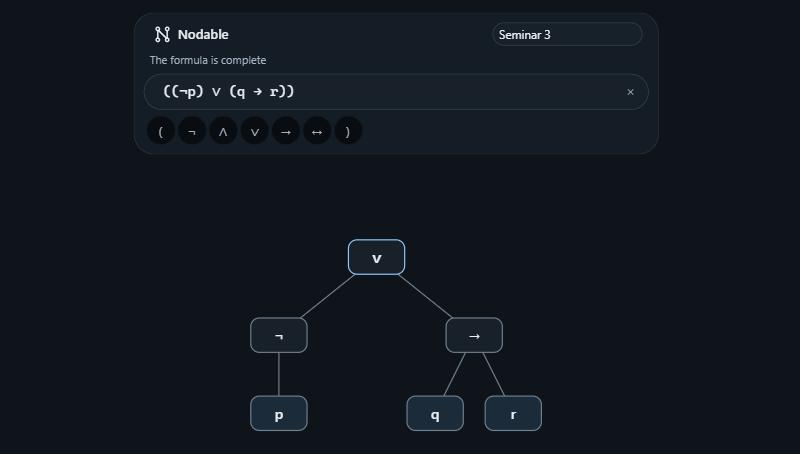
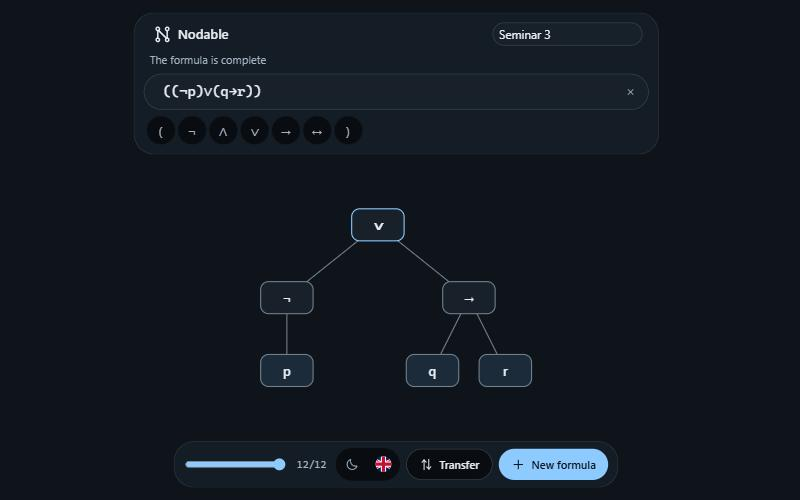
docs(repo): center the readme header and document the exports
The header relied on a wrapping div, which GitHub does not center, and
two of the three badges pointed at an owner placeholder, so they
rendered as invalid.

- Each header element carries its own align attribute
- Badges are license, Svelte and TypeScript, all of which resolve
- The node details section is replaced by one about exports
- Screenshots are retaken with the dock in frame and the tree centred
- Repository links use the real account instead of the placeholder

diff --git a/README.md b/README.md
@@ -1,16 +1,16 @@
-<div align="center">
+<p align="center">
+  <img src="assets/logo/logo.svg" alt="Nodable" width="88">
+</p>
 
-<img src="assets/logo/logo.svg" alt="" width="88">
+<h1 align="center">Nodable</h1>
 
-# Nodable
+<p align="center">Syntax trees for propositional logic formulas, in the browser.</p>
 
-Syntax trees for propositional logic formulas, in the browser.
-
-[![CI](https://github.com/[OWNER]/nodable/actions/workflows/ci.yml/badge.svg)](https://github.com/[OWNER]/nodable/actions/workflows/ci.yml)
-[![License: MIT](https://img.shields.io/badge/license-MIT-blue.svg)](LICENSE)
-[![Latest release](https://img.shields.io/github/v/release/[OWNER]/nodable?sort=semver)](https://github.com/[OWNER]/nodable/releases)
-
-</div>
+<p align="center">
+  <a href="LICENSE"><img alt="License: MIT" src="https://img.shields.io/badge/license-MIT-2f7bbf"></a>
+  <a href="https://svelte.dev"><img alt="Svelte 5" src="https://img.shields.io/badge/Svelte-5-ff3e00?logo=svelte&logoColor=white"></a>
+  <a href="https://www.typescriptlang.org"><img alt="TypeScript" src="https://img.shields.io/badge/TypeScript-strict-3178c6?logo=typescript&logoColor=white"></a>
+</p>
 
 ![The tree of a complete formula](assets/screenshots/overview.png)
 
@@ -20,10 +20,10 @@ Computational Logic course. Everything runs in the browser: no account, no serve
 ## Features
 
 - An arrow marks where the next token goes, and dotted boxes show what is still missing.
-- A slider replays the construction from the first token to the last.
 - Errors are reported in plain words, and the last valid tree is kept.
+- A slider replays the construction from the first token to the last.
 - Several named formulas per workspace, saved locally.
-- Export to SVG, PNG, LaTeX or plain text.
+- Export to SVG, PNG, LaTeX, plain text or JSON.
 - English and Romanian, light and dark.
 
 ## Undecided groups
@@ -33,11 +33,12 @@ Computational Logic course. Everything runs in the browser: no account, no serve
 After an open parenthesis, a group can still become a single or a double node. Nodable draws both
 trees until the next token decides which one it is.
 
-## Node details
+## Exports
 
-![A selected node and its description](assets/screenshots/node.png)
+![The export menu](assets/screenshots/exports.png)
 
-Select a node to read what it is. The main connective of the formula is marked as such.
+An image export reproduces what is on screen, both variants included, with the formula at the top,
+and the file is named after the formula. JSON holds the whole workspace and can be imported back.
 
 ## Dark theme
 
@@ -67,16 +68,6 @@ in `((¬p) ∨ q)`. A single variable such as `p` is also a formula.
 | Disjunction | `∨`    | `\|` `\/`     |
 | Implication | `→`    | `->` `=>`     |
 | Equivalence | `↔`    | `<->` `<=>`   |
-
-A variable is a letter followed by digits, such as `p`, `q1` or `P2`. Names are case sensitive and
-spaces are ignored.
-
-| Input          | Action                    |
-| -------------- | ------------------------- |
-| `Enter`        | Start another formula     |
-| `Escape`       | Clear the formula         |
-| Wheel or pinch | Zoom                      |
-| Drag           | Move around the workspace |
 
 The complete rules and the diagnostic codes are in [docs/notation.md](docs/notation.md).
 

diff --git a/SECURITY.md b/SECURITY.md
@@ -15,7 +15,7 @@ are released from `main` and included in the next release.
 Please do not open a public issue for a security problem.
 
 Report it privately through GitHub's
-[security advisory form](https://github.com/[OWNER]/nodable/security/advisories/new), or by email to
+[security advisory form](https://github.com/alecs007/nodable/security/advisories/new), or by email to
 [SECURITY CONTACT].
 
 Include the affected version, a description of the issue, and the steps needed to reproduce it. You
